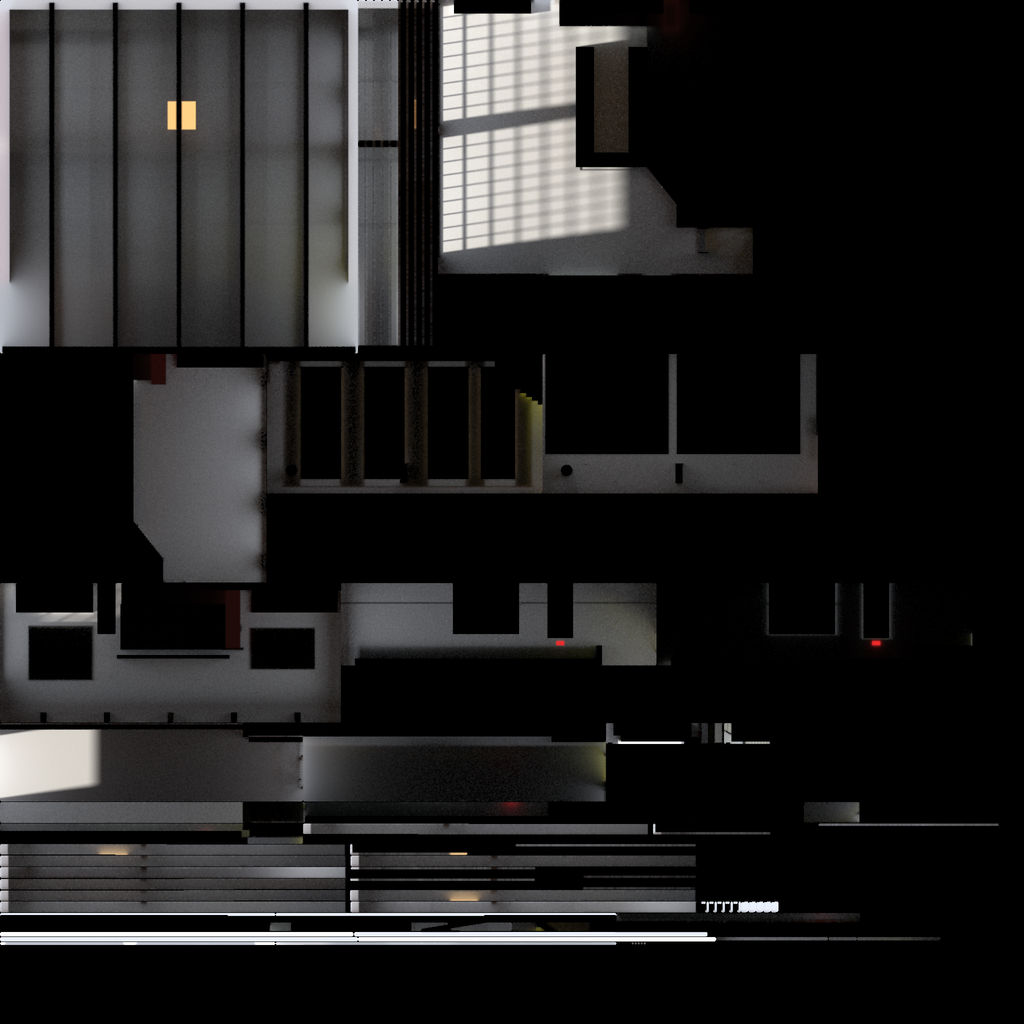
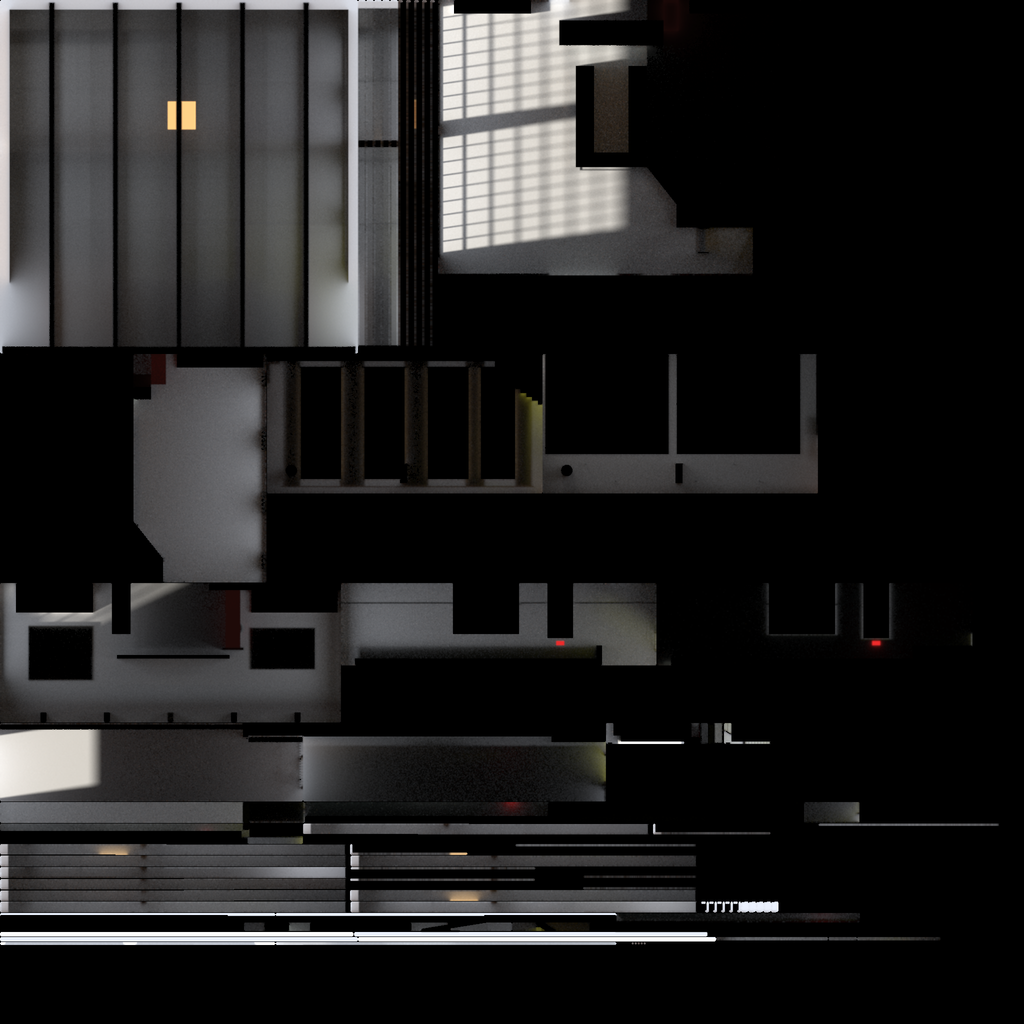
V2: owner's V1 review: 20° dollhouse lens, back bar off the wall with the restroom corridor half behind it, red dado on the garage-door wall; bottles drawn again; re-baked (VEN-01, CAM-01, LGT-03)
- Dollhouse lens 20° (owner); the ?lens=narrow A/B is removed.
- West wall: red-brick dado under buff brick, like the back-bar wall (owner); the whole-wall red finish is gone.
- Back bar and rear counter 0.9 m off the north wall, a passage behind them closed at the east by the wine wall; the bar island's back end moves inland with them, its front unchanged (owner photo).
- Restroom corridor door at x 5.2-6.15, half behind the back bar's west end; the canopy reaches the wall.
- The back-bar bottles were hidden since V0: StaticMerge hides instanced meshes, so they are drawn outside it.
- Re-baked at 256 samples.

Claude-Session: https://claude.ai/code/session_011uuG6S5B44UFQf4qRyq7GE

diff --git a/src/scene/venue/Fixtures.tsx b/src/scene/venue/Fixtures.tsx
@@ -239,7 +239,8 @@ export function BackBar({ venue, m }: Omit<P, "evening">) {
     for (let x = x0; x <= x1 + 1e-6; x += (x1 - x0) / 6)
       frame.push(boxGeo(x - 0.04, 0.95, z0, x + 0.04, b.height, z1));
     frame.push(boxGeo(x0, b.height - 0.1, z0, x1, b.height, z1));
-    const canopy = boxGeo(x0 - 0.2, b.canopyHeight, z0, x1 + 0.2, b.canopyHeight + 0.18, z1 + 0.9);
+    // The canopy reaches the wall, over the passage behind the shelves (owner's photo, 2026-10-18).
+    const canopy = boxGeo(x0 - 0.2, b.canopyHeight, 0, x1 + 0.2, b.canopyHeight + 0.18, z1 + 0.9);
     const neon = new THREE.TorusGeometry(0.28, 0.025, 8, 32);
     neon.translate(x1 + 0.45, 2.1, 0.08);
     // Round neon sign on a dark backing board, so it reads as signage, not a floating ring (R02).
@@ -259,6 +260,24 @@ export function BackBar({ venue, m }: Omit<P, "evening">) {
       neonBack,
     };
   }, [venue]);
+  return (
+    <group name="back-bar">
+      <mesh geometry={g.cabinet} material={m.backBarWood} />
+      <mesh geometry={g.counter} material={m.barBase} />
+      <mesh geometry={g.counterTop} material={m.marble} />
+      {g.fridges && <mesh geometry={g.fridges} material={m.fridge} />}
+      {g.frame && <mesh geometry={g.frame} material={m.backBarWood} />}
+      {g.shelves && <mesh geometry={g.shelves} material={m.glass} />}
+      {g.strips && <mesh geometry={g.strips} material={m.shelfGlow} />}
+      <mesh geometry={g.canopy} material={m.steel} />
+      <mesh geometry={g.neonBack} material={m.blackMetal} />
+      <mesh geometry={g.neon} material={m.exitSign} />
+    </group>
+  );
+}
+
+/** The bottles on the back bar's shelves: one instanced mesh, so drawn outside `StaticMerge`. */
+export function BackBarBottles({ venue }: Pick<P, "venue">) {
   const bottles = useMemo(() => {
     const [x0, z0, x1] = venue.data.backBar.rect.value;
     // Bottle profile: body, shoulder, neck (lathe), so shelves read as bottles, not book spines.
@@ -309,21 +328,7 @@ export function BackBar({ venue, m }: Omit<P, "evening">) {
     },
     [bottles],
   );
-  return (
-    <group name="back-bar">
-      <mesh geometry={g.cabinet} material={m.backBarWood} />
-      <mesh geometry={g.counter} material={m.barBase} />
-      <mesh geometry={g.counterTop} material={m.marble} />
-      {g.fridges && <mesh geometry={g.fridges} material={m.fridge} />}
-      {g.frame && <mesh geometry={g.frame} material={m.backBarWood} />}
-      {g.shelves && <mesh geometry={g.shelves} material={m.glass} />}
-      {g.strips && <mesh geometry={g.strips} material={m.shelfGlow} />}
-      <mesh geometry={g.canopy} material={m.steel} />
-      <mesh geometry={g.neonBack} material={m.blackMetal} />
-      <mesh geometry={g.neon} material={m.exitSign} />
-      <primitive object={bottles} />
-    </group>
-  );
+  return <primitive object={bottles} />;
 }
 
 export function Furnishings({

diff --git a/src/scene/Studio3D.tsx b/src/scene/Studio3D.tsx
@@ -46,7 +46,7 @@ import {
 } from "../state/graphics";
 import { useStore } from "zustand";
 import { Bar, Ceiling, Floors, Mezzanine, Plinth, Railing, Stair, Walls } from "./venue/Architecture";
-import { BackBar, Backdrops, Furnishings, Lights, Openings } from "./venue/Fixtures";
+import { BackBar, BackBarBottles, Backdrops, Furnishings, Lights, Openings } from "./venue/Fixtures";
 import { StaticMerge } from "./venue/merge";
 
 /** The hidden performance overlay is on (`?perf`, V0). */
@@ -145,7 +145,13 @@ function Lighting({
         />
       ))}
       {/* The back bar's glow, under its canopy (R01, R03). */}
-      <pointLight position={[8.1, 2.3, 0.4]} intensity={16 * glow} distance={7} decay={1.6} color="#ffc98e" />
+      <pointLight
+        position={[8.1, 2.3, venue.data.backBar.rect.value[1] + 0.4]}
+        intensity={16 * glow}
+        distance={7}
+        decay={1.6}
+        color="#ffc98e"
+      />
       <pointLight position={[13.5, 1.6, 6]} intensity={6 * glow} distance={9} decay={1.6} color="#ffd0a0" />
       <pointLight position={[3.5, 1.6, 6]} intensity={6 * glow} distance={9} decay={1.6} color="#ffd0a0" />
       <pointLight position={[5.6, 2, 11]} intensity={6 * glow} distance={8} decay={1.6} color="#ffd0a0" />
@@ -438,6 +444,7 @@ function Scene({
         <BackBar venue={venue} m={m} />
         <Furnishings venue={venue} m={m} art={mode !== "plan"} choices={scenario.venueToggles.paintings} />
       </StaticMerge>
+      <BackBarBottles venue={venue} />
       <Openings venue={venue} m={m} evening={evening} cutWalls={cut} />
       <group visible={mode !== "plan"}>
         <Plinth venue={venue} m={m} />
@@ -533,7 +540,7 @@ export function Studio3D({
         powerPreference: "high-performance",
       }}
       camera={{
-        fov: dollhouse?.fov ?? 30,
+        fov: dollhouse?.fov ?? 20,
         near: 0.1,
         far: 400,
         position: (dollhouse?.position ?? [26, 24, 30]) as [number, number, number],

diff --git a/tests/unit/layout.test.ts b/tests/unit/layout.test.ts
@@ -99,14 +99,18 @@ describe("entrance and stairwell", () => {
     expect(well?.head).toBeGreaterThanOrEqual(south.height ?? venue.ceiling);
   });
 
-  test("[VEN-01] the restroom corridor opens in the north wall between the west painting and the back bar (R07)", () => {
+  test("[VEN-01] the restroom corridor opens in the north wall half behind the back bar, reached by the passage behind it (R07, owner)", () => {
     const north = venue.data.walls.find((w) => w.id === "north");
     const corridor = north?.openings.find((o) => o.kind === "corridor");
     if (!corridor) throw new Error("no restroom corridor");
     const west = venue.data.fixtures.paintings.find((p) => p.wall === "north" && p.x1 < 6);
+    const [bx0, bz0] = venue.data.backBar.rect.value;
     expect(corridor.start).toBeGreaterThan(west?.x1 ?? 0);
-    expect(corridor.end).toBeLessThan(venue.data.backBar.rect.value[0]);
+    expect(corridor.start).toBeLessThan(bx0);
+    expect(corridor.end).toBeGreaterThan(bx0);
     expect(corridor.end - corridor.start).toBeGreaterThanOrEqual(0.9);
+    // The back bar stands off the wall: a walkable passage behind it to the corridor.
+    expect(bz0).toBeGreaterThanOrEqual(0.8);
     // No banquette across it.
     for (const b of venue.data.fixtures.banquettes)
       if (!b.wall && b.x0 !== undefined && b.x1 !== undefined)

diff --git a/src/scene/venue/merge.tsx b/src/scene/venue/merge.tsx
@@ -31,7 +31,8 @@ function drawn(root: THREE.Object3D, out: THREE.Mesh[] = []): THREE.Mesh[] {
  * Static venue parts drawn as one mesh per material (visual stage V0: fewer draw calls in the main
  * and shadow passes). The parts render hidden inside; their visible meshes are baked into world
  * space and merged per material and shadow flags once mounted, and again whenever `version`
- * changes, so `version` must name every input that changes what the parts draw.
+ * changes, so `version` must name every input that changes what the parts draw. Instanced meshes
+ * are not merged and stay hidden here: draw them outside.
  */
 export function StaticMerge({ version, children }: { version: string; children: ReactNode }) {
   const source = useRef<THREE.Group>(null);

diff --git a/src/scene/venue/walls.ts b/src/scene/venue/walls.ts
@@ -80,9 +80,8 @@ export const CUT_HEIGHT = 1.15;
 export function buildWall(wall: WallData, height: number, thickness: number, cut: boolean): WallMeshes {
   const full = wallPieces(wall, wall.height ?? height);
   const pieces = cut ? clip(full, CUT_HEIGHT) : full;
-  // Red brick dado band where the photos show one (wall.dado = its height); a red-brick wall throughout.
-  const [low, high] =
-    wall.finish === "redBrick" ? [pieces, []] : wall.dado ? splitAt(pieces, wall.dado) : [[], pieces];
+  // Red brick dado band where the photos show one (wall.dado = its height).
+  const [low, high] = wall.dado ? splitAt(pieces, wall.dado) : [[], pieces];
 
   const panels: THREE.BufferGeometry[] = [];
   for (const pn of wall.panels ?? []) {

diff --git a/src/domain/venue/schema.ts b/src/domain/venue/schema.ts
@@ -35,8 +35,8 @@ const wall = z.object({
   id: z.enum(["north", "west", "east", "south"]),
   from: vec2,
   to: vec2,
-  /** `brick`: buff brick (with a red `dado` where given); `redBrick`: red-brown brick throughout. */
-  finish: z.enum(["brick", "redBrick"]),
+  /** Buff brick, with a red `dado` where given. */
+  finish: z.enum(["brick"]),
   height: z.number().optional(),
   /** Height of a red brick band at the base of the wall, where the photos show one. */
   dado: z.number().optional(),

diff --git a/src/app/boot.ts b/src/app/boot.ts
@@ -41,9 +41,6 @@ export type Cloud = {
 
 export async function boot(): Promise<{ studio: Studio; cloud: Cloud }> {
   const data = parseVenue(venueJson);
-  // Owner's A/B for the dollhouse framing (visual stage V1): `?lens=narrow`, a longer lens.
-  const dollhouse = data.cameraPresets.dollhouse;
-  if (dollhouse && new URLSearchParams(window.location.search).get("lens") === "narrow") dollhouse.fov = 20;
   const venue = buildVenue(data);
   const builtIn = buildCatalog([
     tables,

diff --git a/src/state/view.ts b/src/state/view.ts
@@ -92,7 +92,7 @@ export const cameraCommands = createStore<{ request: { key: string | null; n: nu
 export const sharedPose = {
   position: [0, 0, 0] as [number, number, number],
   quaternion: [0, 0, 0, 1] as [number, number, number, number],
-  fov: 30,
+  fov: 20,
 };
 
 export function requestCamera(key: string | null) {

diff --git a/references/venue_evidence_matrix.md b/references/venue_evidence_matrix.md
@@ -34,14 +34,14 @@ The drawn map in `docs/mockups/lofi.html` (Venue map tab) predates the owner's c
 
 | Feature | Evidence | Conf. | Notes |
 |---|---|---|---|
-| Bar: U-shaped island, white marble top, black base, open toward back bar | O: R01 R02 R03 U01 U02 U05 UV01 · C | H shape / M size | Front holds 5 stools; each side 6 (C, 2026-10-17: "6 or 7"; modelled 6). Longer than wide (owner photo, 2026-10-17): ≈ 3.4 m front × ≈ 5.7 m, its front ≈ 5.05 m from the kitchen wall (C, 2026-10-17, round 2; was ≈ 6.45 m). East side seats sit on the raised floor. |
-| Back bar: lit bottle shelving, glass fridges, steel canopy, round red neon sign | O: R02 R03 R14 U02 UV01 | H | North wall, centred on bar opening. |
+| Bar: U-shaped island, white marble top, black base, open toward back bar | O: R01 R02 R03 U01 U02 U05 UV01 · C | H shape / M size | Front holds 5 stools; each side 6 (C, 2026-10-17: "6 or 7"; modelled 6). Longer than wide (owner photo, 2026-10-17): ≈ 3.4 m front × ≈ 4.8 m, its front ≈ 5.05 m from the kitchen wall (C, 2026-10-17, round 2; was ≈ 6.45 m). Its back end moved 0.9 m inland with the back bar, its front unchanged (owner, 2026-10-18; was ≈ 5.7 m long). East side seats sit on the raised floor. |
+| Back bar: lit bottle shelving, glass fridges, steel canopy, round red neon sign | O: R02 R03 R14 U02 UV01 | H | North wall, centred on bar opening. Stands off the wall with a passage behind it to the restroom corridor, closed at its east end by the wine wall (owner photo, 2026-10-18); passage ≈ 0.9 m (L). |
 | Brass multi-bulb chandelier over bar | O: R02 R03 R14 U01 U02 U05 | H | Dominant evening light source. |
 | Birdcage crystal chandeliers (≥5), some hung on rope | O: R01 R03 R04 R05 R08 R10 U04 UV01 UV02 | H presence / M positions | Over west dining, east window zone, central area. |
 | Black drum pendants, track spots, projector(s) | O: R01 R02 R04 U04 UV02 | H | Projector near glazing (R04, U04). |
 | Ceiling: timber beams on tongue-and-groove planks, riveted black steel girders, black ducts; skylight near bar | O: R01 R02 R03 U03 UV02 | H | Dance floor zone is under this full-height ceiling (C). The girder runs clear of the skylight and chandelier, nearer the south (R01 R02 R03): z ≈ 6.4 (M clear of the skylight, L exact; V1). Black conduit and lighting track under the deck (R02 R03). |
-| West wall: 2 black steel glazed garage doors (a fine grid of small panes) | O: R02 R03 R04 R17 U01 U04 U05 · C | H | The doors take the wall: ≈ 5.6 m each, a 0.6 m divider, from the north end; a small wall (≈ 0.9 m) at the south end (C, 2026-10-17; shortened with the room in round 2). Terrace beyond = background only. The piers and the wall above the doors are red-brown brick, with steel jambs and headers (R02 R03 R04; M, V1). |
-| Restroom corridor: an opening in the north wall near the pop-art painting into a green-walled corridor with a framed photo | O: R07 · C | M presence / L position | Owner, 2026-10-17. Modelled (V1) from R07 at x ≈ 4.5–5.45, 2.4 m high: in R07 the pop-art hangs left (west) of the back bar, with ≈ 0.2 m of brick, the opening and a dark post between them; the north banquette now ends at x 4.35. To confirm with the owner: R01 and UV01 show the pop-art east of the bar, so the paintings may have moved between photos. |
+| West wall: 2 black steel glazed garage doors (a fine grid of small panes) | O: R02 R03 R04 R17 U01 U04 U05 · C | H | The doors take the wall: ≈ 5.6 m each, a 0.6 m divider, from the north end; a small wall (≈ 0.9 m) at the south end (C, 2026-10-17; shortened with the room in round 2). Terrace beyond = background only. Like the back-bar wall: red-brick dado (≈ 1.3 m) under buff brick (owner, 2026-10-18; was red-brown throughout), with steel jambs and headers (R02 R03 R04). |
+| Restroom corridor: an opening in the north wall near the pop-art painting into a green-walled corridor with a framed photo | O: R07 · C | M presence / M position | Owner, 2026-10-17 and 2026-10-18 (with photo): the doorway is half behind the back bar's west end, reached through the passage behind the back bar; inside, the corridor turns left. Modelled at x ≈ 5.2–6.15, 2.4 m high. |
 | Dark green panelled wall, tufted banquette, EXIT door seen in R04 | O: R04 · C | M | Not on the west wall (C, 2026-10-17); the south (kitchen) wall is the green one. Flat paint with one ledge in R04, not framed panels (V1 fidelity review). |
 | North wall: buff brick over red-brick dado; tufted nail-head banquettes; horseman painting (west of back bar), pop-art portrait (east of back bar) | O: R01 R03 R06 R07 U03 U05 UV01 · C: F01 white rectangles = paintings | M | Artwork moves between years (R08, R15 differ); treat paintings as swappable. Dado top ≈ 1.3 m, about 0.4 m below the paintings (R03 R07; L, V1); the east wall's stays 1.05 m (R10). |
 | East wall: double-height street windows, velvet curtains, brick piers with red-brick bands | O: R05 R09 R10 R13 R15 UV01 UV02 | M | Window height est. 5–6 m (L). |
@@ -91,7 +91,7 @@ The drawn map in `docs/mockups/lofi.html` (Venue map tab) predates the owner's c
 | Mezzanine projection into the main room | ≈ 0.6 m (range 0–1 m) | L | Sits above kitchen + corridor (C). The edge overhangs the south wall line, a dark recess over the entrance (R09, owner photo 3; modelled in visual stage V1). |
 | Garage door (each) | ≈ 5.6 m W × 3.6–4.4 m H | M | Owner (2026-10-17): the two doors take the west wall, a small wall left at the south end |
 | Street windows | 2–2.5 m W × 5–6 m H | L | Curtain drops vs chairs |
-| Bar island | ≈ 5.7 m (W side) × ≈ 3.4 m (front) | M | 5 stools at the front (≈ 0.65 m pitch), 6 a side (≈ 0.95 m pitch) (C) |
+| Bar island | ≈ 4.8 m (W side) × ≈ 3.4 m (front) | M | 5 stools at the front (≈ 0.65 m pitch), 6 a side (≈ 0.95 m pitch) (C) |
 | Bar counter height | 1.05–1.10 m | M | Stools vs counter |
 
 Sense checks only: published indoor capacity ~150–170 seated; 3,200 ft² (~297 m²) historical claim. Neither constrains the model.

diff --git a/VISUAL_STATUS.md b/VISUAL_STATUS.md
@@ -51,7 +51,7 @@ One pull request per stage, with the Vercel preview. Stopping after any stage le
 | Stage | Delivers (summary) | Priority | State |
 |---|---|---|---|
 | V0 | Performance foundation, measurement, asset pipeline and checks | Must | Built (PR #16), waiting on the owner: device readings, merge |
-| V1 | Room model and surfaces | Must | Built, PR after #16 merges; owner: room on the preview, corridor position, lens |
+| V1 | Room model and surfaces | Must | Built, PR #17; owner tested it (2026-10-18): corridor and lens settled, changes go in V2; merge |
 | V2 | Light: hybrid bake, evening calibration, grounding | Must | Built, PR after V1; owner: evening and daylight look on the preview |
 | V3 | Bar and back bar | Should | Not started |
 | V4 | Linens and chairs | Must | Not started |
@@ -217,6 +217,7 @@ The Balanced still frame on PPL-03 can reach ≈ 155 draw calls (its ambient-occ
 - Calmer evening live light, so white, ivory and champagne linen stay distinct (colour check: white reads light ivory-white, not beige).
 - `[LGT-03]`: CI fails when the manifest's fingerprints (room surfaces, light inputs, bake script) do not match; at load a mismatch draws the live-lit room (`?bake=stale` shows it).
 - Reviews: `ux-reviewer` (1 blocker, 4 majors) and `fidelity-reviewer` (black wall tops and cut-wall faces, brick outshining the back bar, cold daylight) all addressed and re-baked; the colour check passes on the cloth drops.
+- Owner changes folded into V2 (2026-10-18), re-baked: the dollhouse lens is 20° (the `?lens=narrow` A/B is gone); the garage-door (west) wall has a red-brick dado under buff brick like the back-bar wall; the back bar stands 0.9 m off the north wall with a passage behind it (closed at its east end by the wine wall), the bar island's back end moving inland with it (front unchanged); the restroom corridor door sits half behind the back bar's west end (x 5.2–6.15). Also fixed: the back-bar bottles, hidden since V0 by the static merge (instanced meshes are now drawn outside it).
 - Not done in V2: the box-projected reflection capture and an HDR daylight environment (the light-former environment stays; neither review asked for them); calibration camera presets matching R08 and U02 (U02 is not in the local cache). The fixed bar, back bar and stair are in the bake as occluders, so their floor shadows are baked.
 
 ### V3: Bar and back bar
@@ -575,5 +576,5 @@ Stop the visual track when any of these holds:
 - **New spec rows and budgets when built:**
   - Spec rows: bar flowers (VEN) and Photo mode (EXP) (the graphics setting is PLT-05).
   - `ARCHITECTURE.md` §7 rows: GPU memory, view-switch freeze, idle frames, light maps, people.
-- **V1 (owner):** is the green restroom corridor directly left (west) of the back bar, as R07 shows, or elsewhere? R03 shows unbroken brick there, so it may predate the opening. And 20° or 30° for the dollhouse (`?lens=narrow` on the preview).
+- **V2 (owner):** is the red dado on the north and west walls ≈ 1.3 m, or nearer 1.0–1.1 m (it looks below the banquette tops in the owner's 2026-10-18 photo)? Is the passage behind the back bar ≈ 0.9 m?
 - **V0 gate (owner):** open `?perf&bench=sample` and `?perf&bench=ppl03` on the laptop, iPhone 16 and Galaxy S24, orbit and drag at the dollhouse and eye-level cameras, press Copy and paste the numbers back; decide the phone draw-call budget for Balanced's still frame (≈ 155 against 150); set the GPU memory budget from the readings.

diff --git a/PROJECT_STATUS.md b/PROJECT_STATUS.md
@@ -92,7 +92,7 @@ To do, in order:
 2. Owner: on the deployed site, save a scenario (first shared save exercises Upstash scripting) and check an import on the second device. Claude cannot sign in, so these stay owner checks.
 3. Owner gate for step 3: import a real centrepiece; the custom request delivered.
 4. Step 4 (owner feedback of 2026-10-17): merged as PR #8–#13 (2026-10-17). Owner checks on a real phone: no pull-to-refresh, the back gesture steps out of layers, the sheet swipes down a step at a time, cloud saves; visual sign-off of the Add library, Style pages and light handle (marked pending in DESIGN_GUIDE). Freeze around 2026-11-10.
-5. Visual track (`VISUAL_STATUS.md`, plan v3): V0 built in PR #16 (on-demand rendering, shadows drawn once, constant light set, no shader compiles on switches, graphics tiers with Auto, `?perf` and benchmark scenes, asset pipeline and checks). Owner: approve the graphics setting mock-up, read `?perf` on the laptop, iPhone 16 and Galaxy S24, merge; then V1. V1 (room model and surfaces) and V2 (baked room light, evening and daylight, contact shadows; `npm run bake`) built on top, one PR each after #16 merges; owner: confirm the restroom corridor position, pick the dollhouse lens, approve the evening and daylight look. Owner, before V7: attach the people reference image to a custom request ("Guest figures"). Meshy-generated models may be committed (owner, 2026-10-18).
+5. Visual track (`VISUAL_STATUS.md`, plan v3): V0 built in PR #16 (on-demand rendering, shadows drawn once, constant light set, no shader compiles on switches, graphics tiers with Auto, `?perf` and benchmark scenes, asset pipeline and checks). Owner: approve the graphics setting mock-up, read `?perf` on the laptop, iPhone 16 and Galaxy S24, merge; then V1. V1 (room model and surfaces) and V2 (baked room light, evening and daylight, contact shadows; `npm run bake`) built on top, one PR each after #16 merges; owner tested V1 (2026-10-18): dollhouse lens 20°, back bar off the wall with the restroom corridor half behind it, west wall dado like the back-bar wall, all in V2; owner: merge #17, then approve the evening and daylight look. Owner, before V7: attach the people reference image to a custom request ("Guest figures"). Meshy-generated models may be committed (owner, 2026-10-18).
 
 ## Step 1 quality (2026-10-16)
 
